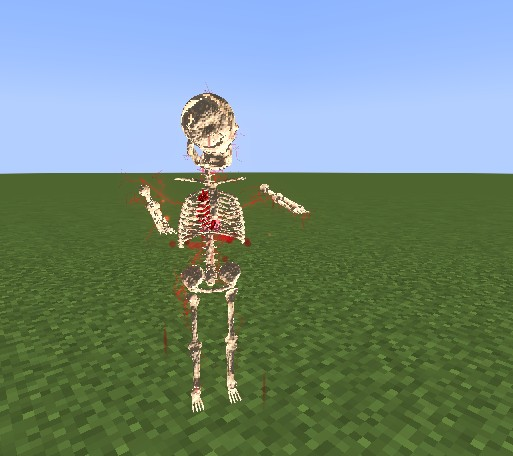
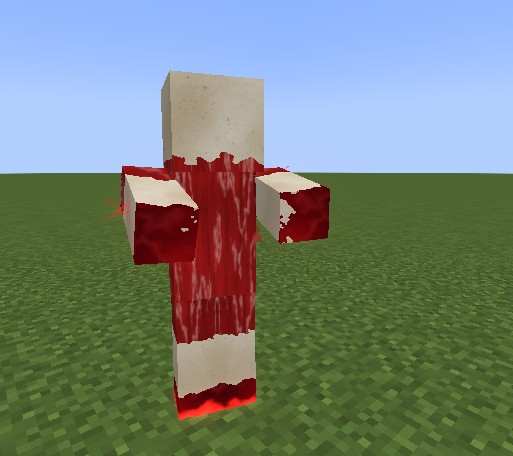
GeckoLib locators and the original regen
- Timeline: GeckoLib bones and locators as attachment points.
- Regen write-up and gallery back to the original effect.

Changed region(s): [[0.2183, 0.1535, 0.655, 0.9211]]

diff --git a/src/content/docs/guides/model-materials.md b/src/content/docs/guides/model-materials.md
@@ -79,20 +79,14 @@ get a hologram:
 
 `kinesis:regen` uses only general features:
 
-1. A `model` track with `hide_original` hides the evaporated mob from the start. Its `bones` mask stays closed until
-   the flesh stage.
+1. A `model` track with `hide_original` hides the evaporated mob from the start. Its `bones` mask stays at 0 for the
+   first part of the effect.
 2. A `particles` track gathers dark remnants inward with an attractor and curl noise.
-3. A single cell appears: a shaded, rippling `mesh` sphere at `body:center`.
+3. A single cell appears: a `mesh` sphere at `body:center`, pulsing through an expression.
 4. Cells divide: a `particles` track whose particles start the `kinesis:regen_split` effect when they die.
 5. Veins grow along the skeleton: a `tendrils` track with `path: bones`.
-6. The skeleton assembles: OBJ meshes for the spine, pelvis, legs, ribcage, arms and skull, each attached to its model
-   part with `align: bone` and grown in with `reveal` behind a white-hot front.
-7. Organs swell into the ribcage: a heart beating through `pulse(...)`, breathing lungs and rippling guts, all with
-   wet `shading` and subsurface scattering.
-8. The body forms: the mask's `progress` sweeps out from the torso through a film of blood, glistening muscle and
-   finally skin, closing over the organs and bones.
-9. Steam rises from the surface, a ring spreads at the feet, and the original returns.
-
-The anatomy meshes ship in the jar under `assets/kinesis/models/anatomy/`, for any effect to use.
+6. Organs pulse: `mesh` spheres with fresnel, scaled by `pulse(time * 9.5, 10)` for a heartbeat.
+7. The body forms: the mask's `progress` sweeps out from the torso through blood, bone, muscle and skin.
+8. Steam rises from the surface and the original returns.
 
 Open `assets/kinesis/kinesis/effects/regen.json` in the Kinesis jar to read it in full.

diff --git a/src/content/docs/guides/timeline.md b/src/content/docs/guides/timeline.md
@@ -42,6 +42,13 @@ Offsets are in blocks, in the anchor's frame: x to the right, y up, z forward. `
 body, its head (where it looks), the world axes, the camera, or `bone`, which turns with the bone it is attached to as
 the model animates. With `bone`, y runs along the bone toward its parent, so an arm's y points up the arm to the
 shoulder. `follow: false` leaves the track where it started.
+
+On GeckoLib models, `bone` names are the geo file's bones, and its locators work as bone names too, so a trail can
+follow the tip of an animated blade:
+
+```json
+{ "type": "trail", "at": { "bone": "blade_tip" }, "length": 0.35, "width": 0.3 }
+```
 `"at": "target"` uses the second anchor set with `.to(...)`.
 
 ## Params

diff --git a/src/content/docs/guides/shapes.md b/src/content/docs/guides/shapes.md
@@ -50,7 +50,7 @@ A `mesh` draws `sphere`, `cube`, `cylinder`, `cone`, `torus` or `plane`, or an O
 Meshes are uploaded to the graphics card once and placed with a matrix every frame, so a detailed model costs about as
 much as a cube.
 
-`reveal` grows a mesh into view along an axis behind a glowing front, the way the regen skeleton grows bone by bone:
+`reveal` grows a mesh into view along an axis behind a glowing front, like a crystal pushing out of the ground:
 
 ```json
 "reveal": { "axis": [0, -1, 0], "progress": "smoothstep(0, 0.6, age)", "edge": 0.05, "edge_color": [3.2, 1.6, 0.9, 1], "noise": 0.03 }
